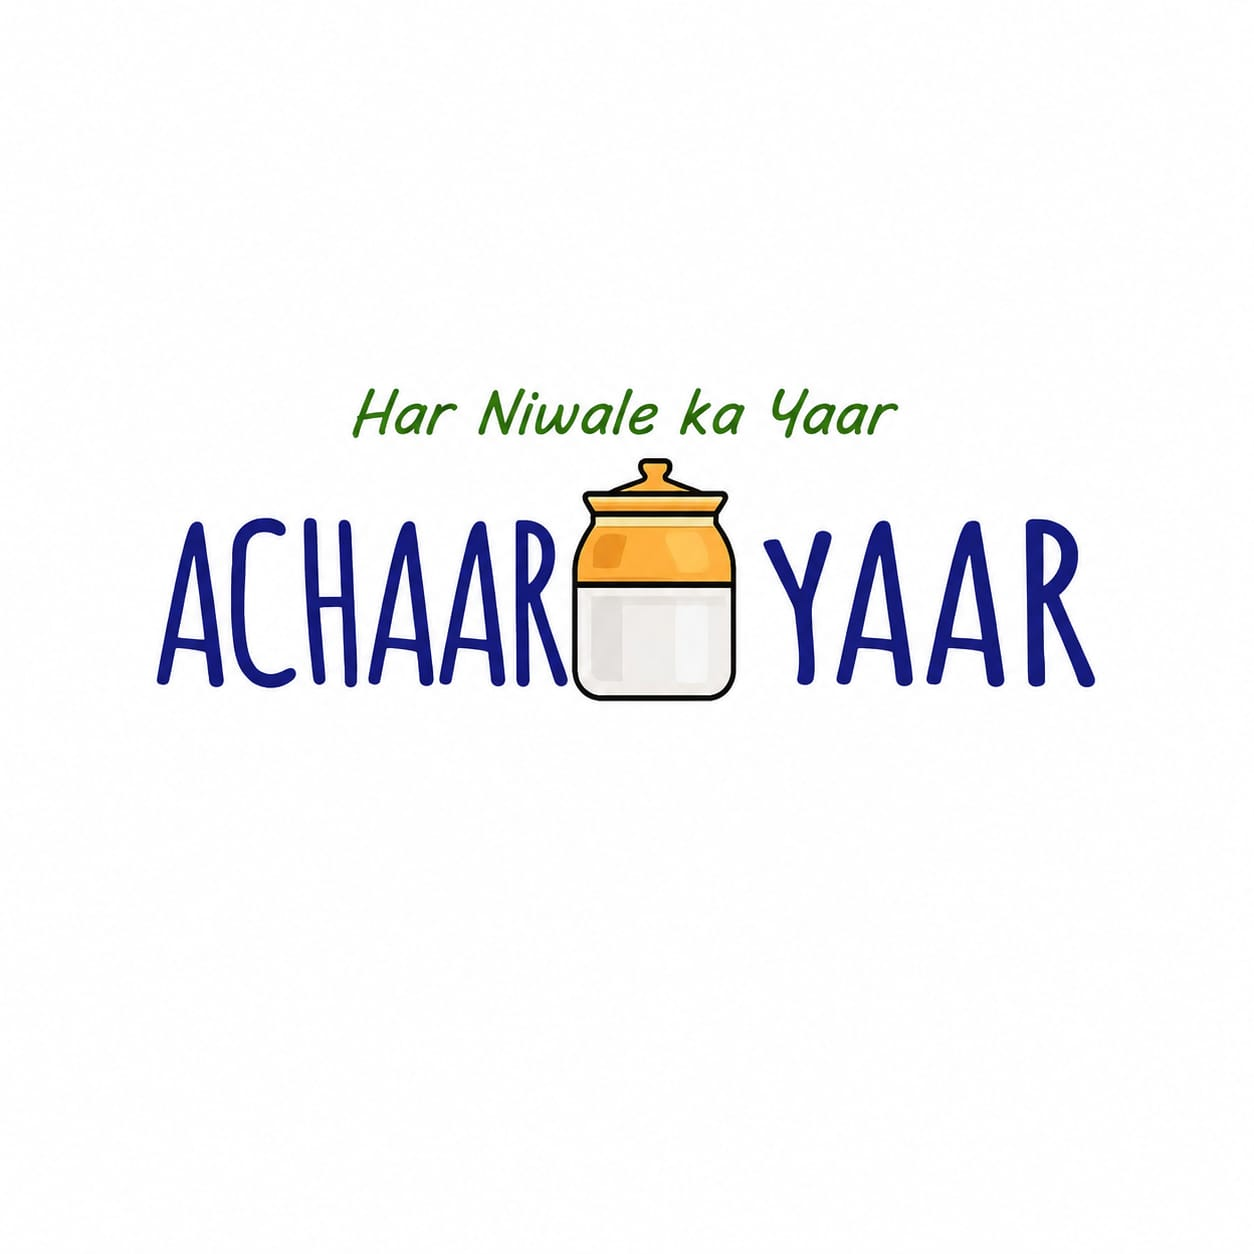
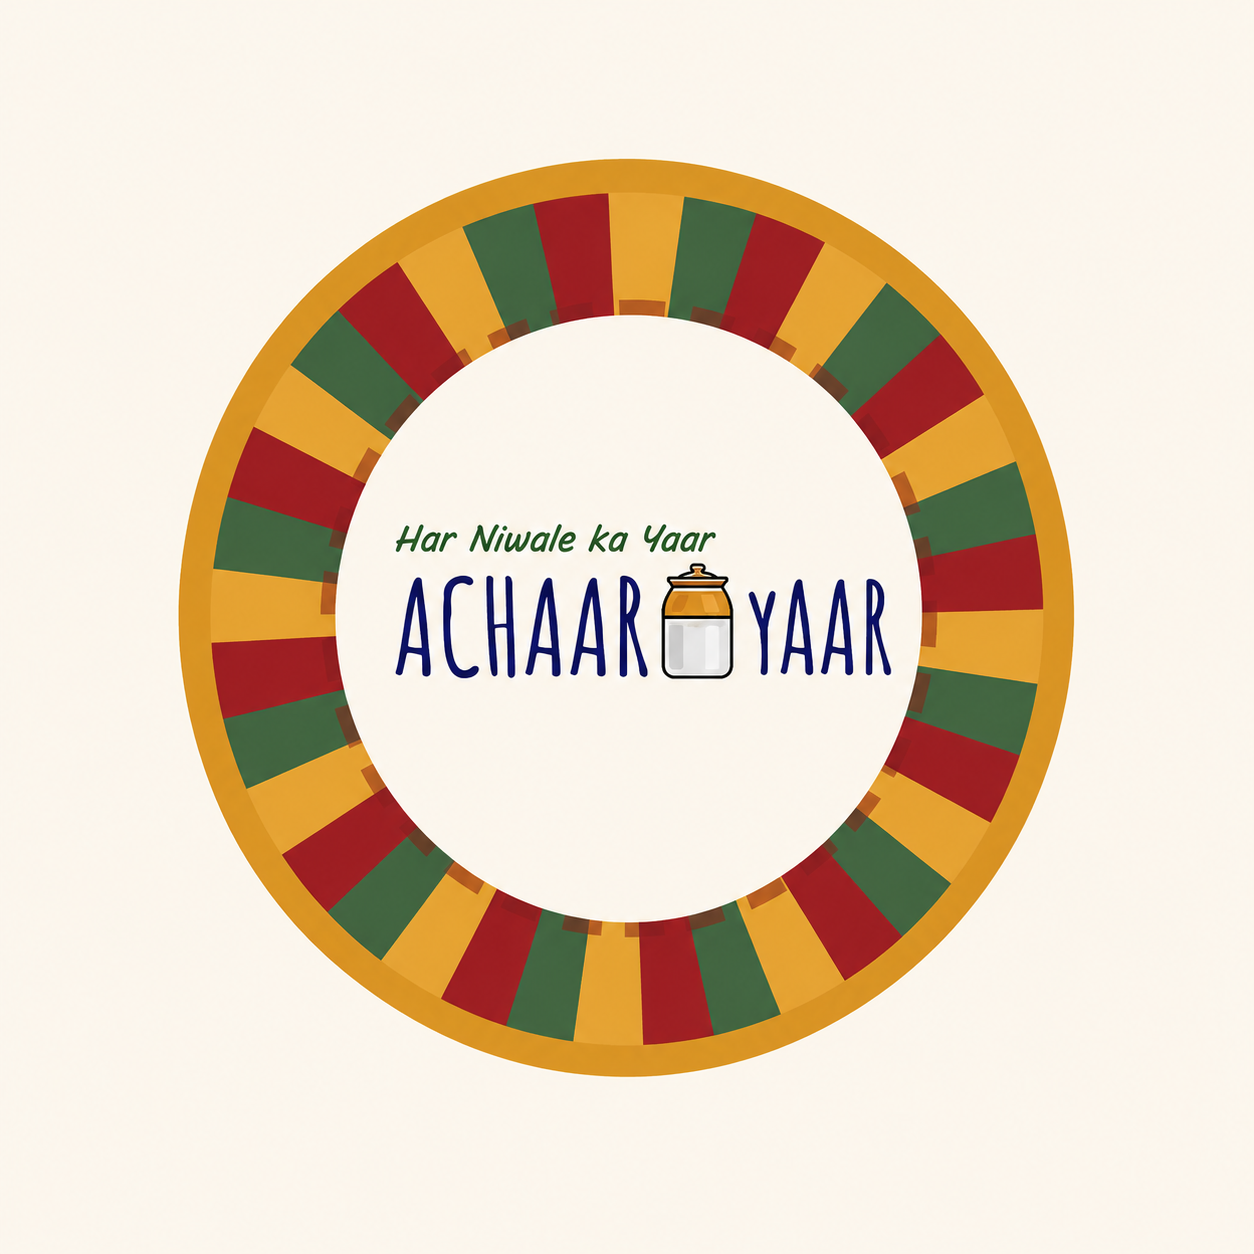
Update Home UI and remove combo pack

Changed region(s): [[0.1244, 0.1244, 0.8708, 0.8708]]

diff --git a/src/app/products/page.tsx b/src/app/products/page.tsx
@@ -40,41 +40,6 @@ const CATEGORY_LINKS = [
   { label: "Combo", value: "combo" },
 ];
 
-const COMBO_PRODUCTS: Product[] = [
-  {
-    _id: "combo-3-box-bihar",
-    name: "3 Item Bihar Combo Pack",
-    description:
-      "A ready combo of 3 pickle jars for daily meals: mango, lemon, and chilli style flavours packed for family use or gifting.",
-    category: "combo pack",
-    image: "/image/jars-yellow.png",
-    featured: true,
-    weights: [
-      {
-        size: "3 items",
-        price: 399,
-        stock: 50,
-      },
-    ],
-  },
-  {
-    _id: "combo-4-box-family",
-    name: "4 Item Family Combo Pack",
-    description:
-      "A fuller 4 item combo pack with classic Bihar-style pickle flavours for homes that want variety on the table every day.",
-    category: "combo pack",
-    image: "/image/holding.jpg",
-    featured: true,
-    weights: [
-      {
-        size: "4 items",
-        price: 499,
-        stock: 50,
-      },
-    ],
-  },
-];
-
 async function getProducts(): Promise<Product[]> {
   const res = await fetch(`${baseUrl}/api/products`, {
     next: { revalidate },
@@ -101,8 +66,7 @@ export default async function ProductsPage({
 }: {
   searchParams: Promise<{ search?: string; category?: string }>;
 }) {
-  const products = await getProducts();
-  const allProducts = [...COMBO_PRODUCTS, ...products];
+  const allProducts = await getProducts();
   const params = await searchParams;
   const search = params.search?.toLowerCase().trim() || "";
   const category = params.category?.toLowerCase().trim() || "";
@@ -401,7 +365,6 @@ export default async function ProductsPage({
                 name={product.name}
                 description={product.description}
                 image={product.image}
-                href={product._id.startsWith("combo-") ? "/products?category=combo" : undefined}
                 weights={product.weights}
               />
             ))}
@@ -411,8 +374,3 @@ export default async function ProductsPage({
     </div>
   );
 }
-
-
-
-
-

diff --git a/src/app/page.tsx b/src/app/page.tsx
@@ -762,8 +762,7 @@ function FeaturedProducts({ products }: { products: any[] }) {
                   )}
                 </div>
                 <div style={{ padding: "1.25rem" }}>
-                  <div style={{ fontFamily: FONT_DISPLAY, fontWeight: 700, color: COLORS.ink, fontSize: "1.1rem", marginBottom: "0.35rem" }}>{p.name}</div>
-                  <div style={{ color: COLORS.muted, fontSize: "0.82rem", lineHeight: 1.55, marginBottom: "1rem" }}>{p.description}</div>
+                  <div style={{ fontFamily: FONT_DISPLAY, fontWeight: 700, color: COLORS.ink, fontSize: "1.1rem", marginBottom: "0.75rem" }}>{p.name}</div>
                   <div style={{ display: "flex", alignItems: "center", justifyContent: "space-between" }}>
                     <div>
                       <span style={{ fontFamily: FONT_DISPLAY, fontWeight: 800, color: COLORS.forest, fontSize: "1.3rem" }}>